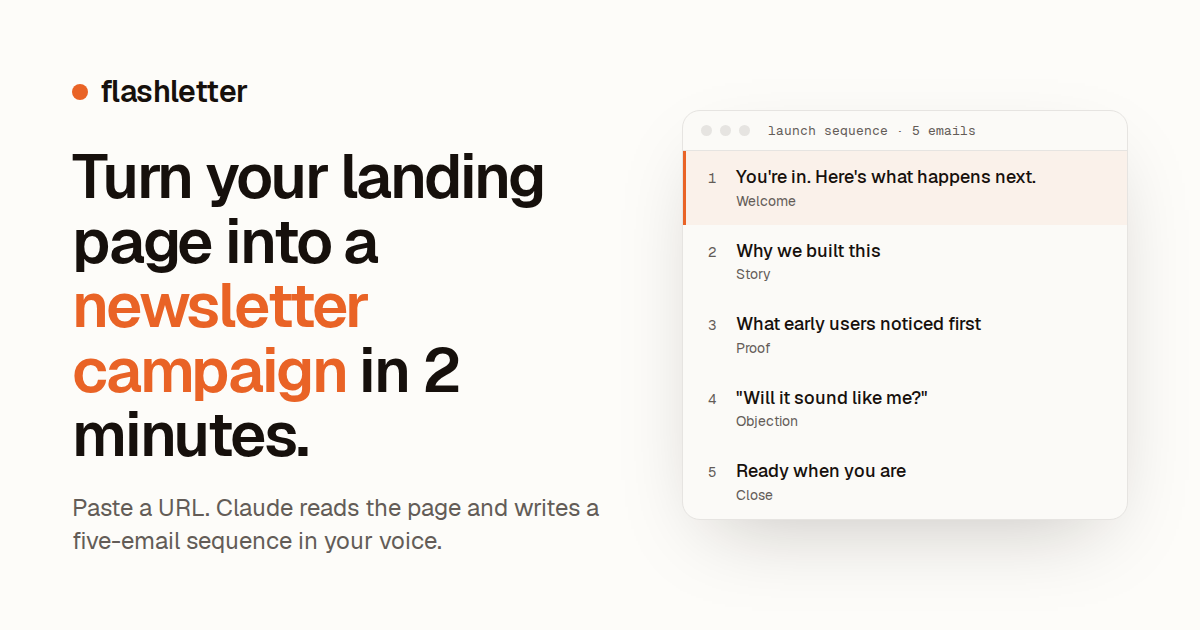
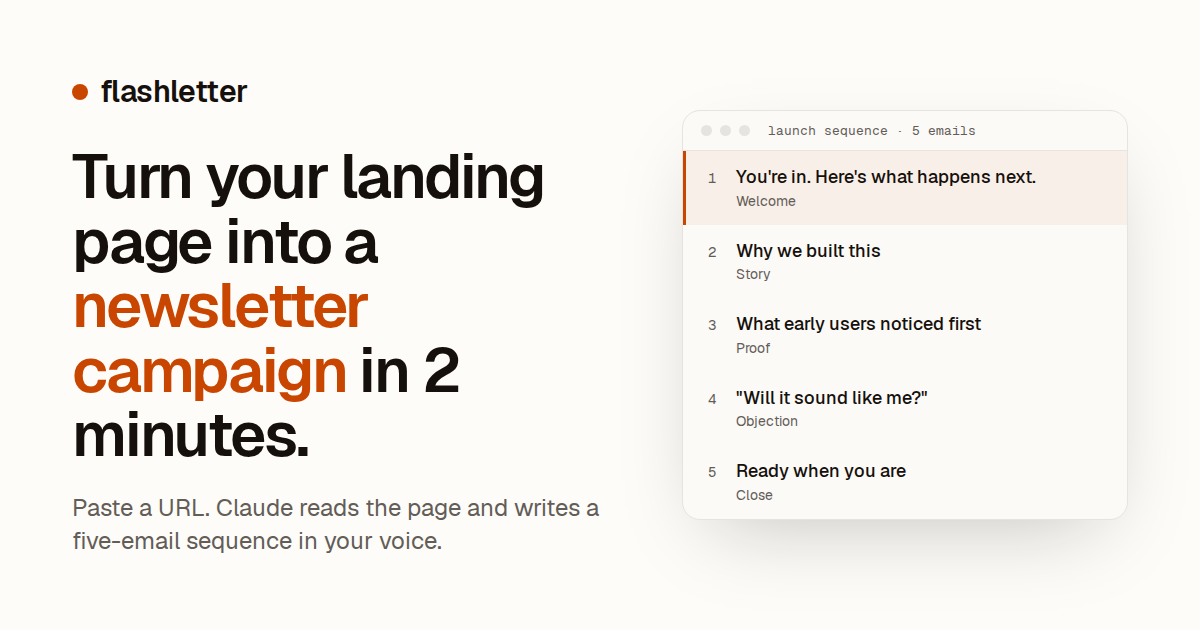
Second review pass: contrast, error copy, titles, support address
- Brand orange darkened to oklch(0.57 0.18 42): white button text and
  orange links now pass WCAG AA (4.5:1); they were 3.3:1. OG image,
  manifest and email link colour follow.
- URL errors say what went wrong ('That doesn't look like a web
  address', 'We couldn't find x.com') instead of 'URL not allowed'.
- Unsubscribe page pointed at support@flashletter.com (wrong domain);
  now jakub@flashletter.app like the rest of the site.
- One title template ('Page | Flashletter'); login and signup get an h1;
  in-text links on legal pages are underlined.

Changed region(s): [[0.0617, 0.4524, 0.3083, 0.5429], [0.0617, 0.5429, 0.3083, 0.6333], [0.0617, 0.1206, 0.0925, 0.1508]]

diff --git a/app/terms/page.tsx b/app/terms/page.tsx
@@ -5,7 +5,7 @@ import { Card, CardContent, CardHeader, CardTitle } from '@/components/ui/card'
 import { AppShell } from '@/components/layouts/app-shell'
 
 export const metadata: Metadata = {
-  title: 'Terms of Service | Flashletter',
+  title: 'Terms of Service',
   description: 'The terms for using Flashletter, the AI newsletter campaign generator.',
 }
 
@@ -38,7 +38,7 @@ const SECTIONS: { title: string; body: ReactNode }[] = [
           and prices are shown on our{' '}
           <Link
             href="/pricing"
-            className="text-primary hover:underline"
+            className="text-primary underline underline-offset-2 hover:text-primary/80"
           >
             pricing page
           </Link>
@@ -139,7 +139,7 @@ const SECTIONS: { title: string; body: ReactNode }[] = [
         You can stop using Flashletter at any time and ask us to delete your account by writing to{' '}
         <a
           href={`mailto:${CONTACT_EMAIL}`}
-          className="text-primary hover:underline"
+          className="text-primary underline underline-offset-2 hover:text-primary/80"
         >
           {CONTACT_EMAIL}
         </a>
@@ -154,7 +154,7 @@ const SECTIONS: { title: string; body: ReactNode }[] = [
         How we handle personal data is described in our{' '}
         <Link
           href="/privacy"
-          className="text-primary hover:underline"
+          className="text-primary underline underline-offset-2 hover:text-primary/80"
         >
           Privacy Policy
         </Link>
@@ -179,7 +179,7 @@ const SECTIONS: { title: string; body: ReactNode }[] = [
           <strong>Email:</strong>{' '}
           <a
             href={`mailto:${CONTACT_EMAIL}`}
-            className="text-primary hover:underline"
+            className="text-primary underline underline-offset-2 hover:text-primary/80"
           >
             {CONTACT_EMAIL}
           </a>

diff --git a/lib/utils/url-safety.ts b/lib/utils/url-safety.ts
@@ -77,6 +77,31 @@ export function isUnsafeUrlError(error: unknown): error is UnsafeUrlError {
   return error instanceof Error && error.name === 'UnsafeUrlError'
 }
 
+/**
+ * What to tell the visitor. The internal messages ("Cannot resolve host",
+ * "Refusing to fetch localhost") stay in logs; a visitor who mistyped a URL
+ * should not read "URL not allowed" as if we were blocking them.
+ */
+export function userMessageForUnsafeUrl(error: Error): string {
+  const msg = error.message
+  if (msg.startsWith('Cannot resolve host')) {
+    const host = msg.slice('Cannot resolve host: '.length)
+    return host.includes('.')
+      ? `We couldn't find ${host}. Check the address for typos and try again.`
+      : "That doesn't look like a web address. Try something like https://yourproduct.com."
+  }
+  if (msg === 'Invalid URL' || msg === 'URL is missing a hostname') {
+    return "That doesn't look like a web address. Try something like https://yourproduct.com."
+  }
+  if (msg === 'Only http(s) URLs are allowed') {
+    return 'Use a web address that starts with http:// or https://.'
+  }
+  if (msg.startsWith('Refusing to fetch')) {
+    return "That address isn't reachable from the internet. Paste your live landing page URL."
+  }
+  return "We couldn't open that page. Check the address and try again."
+}
+
 export async function assertSafeUrl(rawUrl: string): Promise<URL> {
   let url: URL
   try {

diff --git a/app/globals.css b/app/globals.css
@@ -15,10 +15,11 @@
   --popover: oklch(0.99 0.004 85);
   --popover-foreground: var(--foreground);
 
-  /* Brand accent — used sparingly: primary CTA, focus, brand mark */
-  --primary: oklch(0.66 0.18 42);
-  --primary-hover: oklch(0.6 0.18 42);
-  --primary-active: oklch(0.55 0.18 42);
+  /* Brand accent, used sparingly: primary CTA, focus, brand mark. L=0.57 keeps
+     white text on it and it on the background at 4.5:1+ (WCAG AA). */
+  --primary: oklch(0.57 0.18 42);
+  --primary-hover: oklch(0.52 0.18 42);
+  --primary-active: oklch(0.48 0.17 42);
   --primary-foreground: oklch(0.99 0 0);
 
   --secondary: oklch(0.96 0.006 85);
@@ -36,7 +37,7 @@
   --ring: var(--primary);
 
   /* Charts (kept minimal; in-app charts may still reference) */
-  --chart-1: oklch(0.66 0.18 42);
+  --chart-1: oklch(0.57 0.18 42);
   --chart-2: oklch(0.55 0.012 60);
   --chart-3: oklch(0.7 0.012 60);
   --chart-4: oklch(0.4 0.012 60);
@@ -239,10 +240,10 @@
 @keyframes pulse-glow {
   0%,
   100% {
-    box-shadow: 0 0 0 0 oklch(0.66 0.18 42 / 0.35);
+    box-shadow: 0 0 0 0 oklch(0.57 0.18 42 / 0.35);
   }
   50% {
-    box-shadow: 0 0 0 10px oklch(0.66 0.18 42 / 0);
+    box-shadow: 0 0 0 10px oklch(0.57 0.18 42 / 0);
   }
 }
 

diff --git a/test/util-url-safety-messages.test.ts b/test/util-url-safety-messages.test.ts
@@ -1,0 +1,31 @@
+// @vitest-environment node
+import { describe, expect, it } from 'vitest'
+import { userMessageForUnsafeUrl } from '@/lib/utils/url-safety'
+
+const err = (message: string) => Object.assign(new Error(message), { name: 'UnsafeUrlError' })
+
+describe('userMessageForUnsafeUrl', () => {
+  it('treats a dotless host as a typo, not a block', () => {
+    expect(userMessageForUnsafeUrl(err('Cannot resolve host: notaurl'))).toMatch(
+      /doesn't look like a web address/,
+    )
+  })
+
+  it('names the domain it could not find', () => {
+    expect(userMessageForUnsafeUrl(err('Cannot resolve host: nope-xyz.com'))).toContain(
+      "couldn't find nope-xyz.com",
+    )
+  })
+
+  it('explains private addresses without leaking internals', () => {
+    const msg = userMessageForUnsafeUrl(err('Refusing to fetch localhost'))
+    expect(msg).toMatch(/isn't reachable from the internet/)
+    expect(msg).not.toMatch(/Refusing/)
+  })
+
+  it('never says "not allowed"', () => {
+    for (const m of ['Invalid URL', 'Only http(s) URLs are allowed', 'Response exceeds 5 bytes']) {
+      expect(userMessageForUnsafeUrl(err(m))).not.toMatch(/not allowed/i)
+    }
+  })
+})

diff --git a/app/api/scrape-landing/stream/route.ts b/app/api/scrape-landing/stream/route.ts
@@ -9,7 +9,12 @@ import { getCachedScrapeData, setCachedScrapeData } from '@/lib/utils/scraper-ca
 import { extractTextFromHTML } from '@/lib/utils/scraper'
 import { extractMetadata, type ExtractedMetadata } from '@/lib/utils/metadata-extractor'
 import { scrapeWithPlaywright, shouldUseDynamicScraping } from '@/lib/utils/playwright-scraper'
-import { assertSafeUrl, isUnsafeUrlError, safeFetch } from '@/lib/utils/url-safety'
+import {
+  assertSafeUrl,
+  isUnsafeUrlError,
+  userMessageForUnsafeUrl,
+  safeFetch,
+} from '@/lib/utils/url-safety'
 import { analyzeLandingPage } from '@/lib/utils/analyzer'
 import type { LandingPageAnalysis } from '@/lib/schemas/analysis'
 import type { ScrapeStreamEvent } from '@/lib/types/scrape-progress'
@@ -43,7 +48,7 @@ export async function POST(req: NextRequest) {
   } catch (error) {
     if (isUnsafeUrlError(error)) {
       return NextResponse.json(
-        { error: 'URL not allowed', message: error.message },
+        { error: userMessageForUnsafeUrl(error), message: error.message },
         { status: 400 },
       )
     }

diff --git a/app/api/scrape-landing/route.ts b/app/api/scrape-landing/route.ts
@@ -9,7 +9,12 @@ import { getCachedScrapeData, setCachedScrapeData } from '@/lib/utils/scraper-ca
 import { extractTextFromHTML } from '@/lib/utils/scraper'
 import { extractMetadata, type ExtractedMetadata } from '@/lib/utils/metadata-extractor'
 import { scrapeWithPlaywright, shouldUseDynamicScraping } from '@/lib/utils/playwright-scraper'
-import { assertSafeUrl, isUnsafeUrlError, safeFetch } from '@/lib/utils/url-safety'
+import {
+  assertSafeUrl,
+  isUnsafeUrlError,
+  userMessageForUnsafeUrl,
+  safeFetch,
+} from '@/lib/utils/url-safety'
 
 export async function POST(req: NextRequest) {
   const startTime = Date.now()
@@ -251,7 +256,7 @@ export async function POST(req: NextRequest) {
 
     if (isUnsafeUrlError(error)) {
       return NextResponse.json(
-        { error: 'URL not allowed', message: error.message },
+        { error: userMessageForUnsafeUrl(error), message: error.message },
         { status: 400 },
       )
     }

diff --git a/app/(auth)/signup/page.tsx b/app/(auth)/signup/page.tsx
@@ -13,7 +13,7 @@ import {
 } from '@/components/ui/card'
 
 export const metadata = {
-  title: 'Sign Up - Flashletter',
+  title: 'Create your account',
   description: 'Create a new account',
 }
 
@@ -49,7 +49,9 @@ export default async function SignupPage({
   return (
     <Card className="bg-card border border-border shadow-sm rounded-xl">
       <CardHeader className="space-y-2 text-center">
-        <CardTitle className="text-display text-2xl md:text-3xl">Create an account</CardTitle>
+        <CardTitle className="text-display text-2xl md:text-3xl">
+          <h1>Create an account</h1>
+        </CardTitle>
         <CardDescription>
           Free plan: {PLAN_LIMITS.free.campaignsPerMonth} campaigns a month. No credit card.
         </CardDescription>

diff --git a/app/(auth)/login/page.tsx b/app/(auth)/login/page.tsx
@@ -10,7 +10,7 @@ import {
 } from '@/components/ui/card'
 
 export const metadata = {
-  title: 'Sign in - Flashletter',
+  title: 'Sign in',
   description: 'Sign in to your account',
 }
 
@@ -18,7 +18,9 @@ export default function LoginPage() {
   return (
     <Card className="bg-card border border-border shadow-sm rounded-xl">
       <CardHeader className="space-y-2 text-center">
-        <CardTitle className="text-display text-2xl md:text-3xl">Welcome back</CardTitle>
+        <CardTitle className="text-display text-2xl md:text-3xl">
+          <h1>Welcome back</h1>
+        </CardTitle>
         <CardDescription>Sign in to pick up your campaigns where you left off.</CardDescription>
       </CardHeader>
       <CardContent>

diff --git a/app/privacy/page.tsx b/app/privacy/page.tsx
@@ -5,7 +5,7 @@ import { Badge } from '@/components/ui/badge'
 import { AppShell } from '@/components/layouts/app-shell'
 
 export const metadata: Metadata = {
-  title: 'Privacy Policy | Flashletter',
+  title: 'Privacy Policy',
   description: 'What personal data Flashletter collects, why, who processes it and your rights.',
 }
 
@@ -15,7 +15,7 @@ const CONTACT_EMAIL = 'jakub@flashletter.app'
 const mail = (
   <a
     href={`mailto:${CONTACT_EMAIL}`}
-    className="text-primary hover:underline"
+    className="text-primary underline underline-offset-2 hover:text-primary/80"
   >
     {CONTACT_EMAIL}
   </a>

diff --git a/app/unsubscribe/page.tsx b/app/unsubscribe/page.tsx
@@ -153,10 +153,10 @@ function UnsubscribePageContent() {
           <p className="text-sm text-muted-foreground">
             Need help? Contact us at{' '}
             <a
-              href="mailto:support@flashletter.com"
-              className="text-primary hover:underline"
+              href="mailto:jakub@flashletter.app"
+              className="text-primary underline underline-offset-2 hover:text-primary/80"
             >
-              support@flashletter.com
+              jakub@flashletter.app
             </a>
           </p>
         </div>

diff --git a/lib/utils/markdown.ts b/lib/utils/markdown.ts
@@ -15,7 +15,7 @@ export function markdownToHtml(text: string): string {
   // Links: only http(s) targets, so a crafted `javascript:` URL stays plain text.
   html = html.replace(
     /\[([^\]]+)\]\((https?:\/\/[^\s)"<>]+)\)/g,
-    '<a href="$2" style="color: #e96326; text-decoration: underline;">$1</a>',
+    '<a href="$2" style="color: #c94600; text-decoration: underline;">$1</a>',
   )
   html = html.replace(/\*\*(.+?)\*\*/g, '<strong>$1</strong>')
   html = html.replace(/\*(.+?)\*/g, '<em>$1</em>')

diff --git a/app/layout.tsx b/app/layout.tsx
@@ -14,7 +14,10 @@ export const viewport: Viewport = {
 }
 
 export const metadata: Metadata = {
-  title: 'Flashletter - Turn your landing page into a newsletter campaign',
+  title: {
+    default: 'Flashletter - Turn your landing page into a newsletter campaign',
+    template: '%s | Flashletter',
+  },
   description:
     'Paste your landing page URL and get a ready-to-send newsletter launch sequence in your own voice. Written by Claude. Free plan, no credit card.',
   keywords: [
